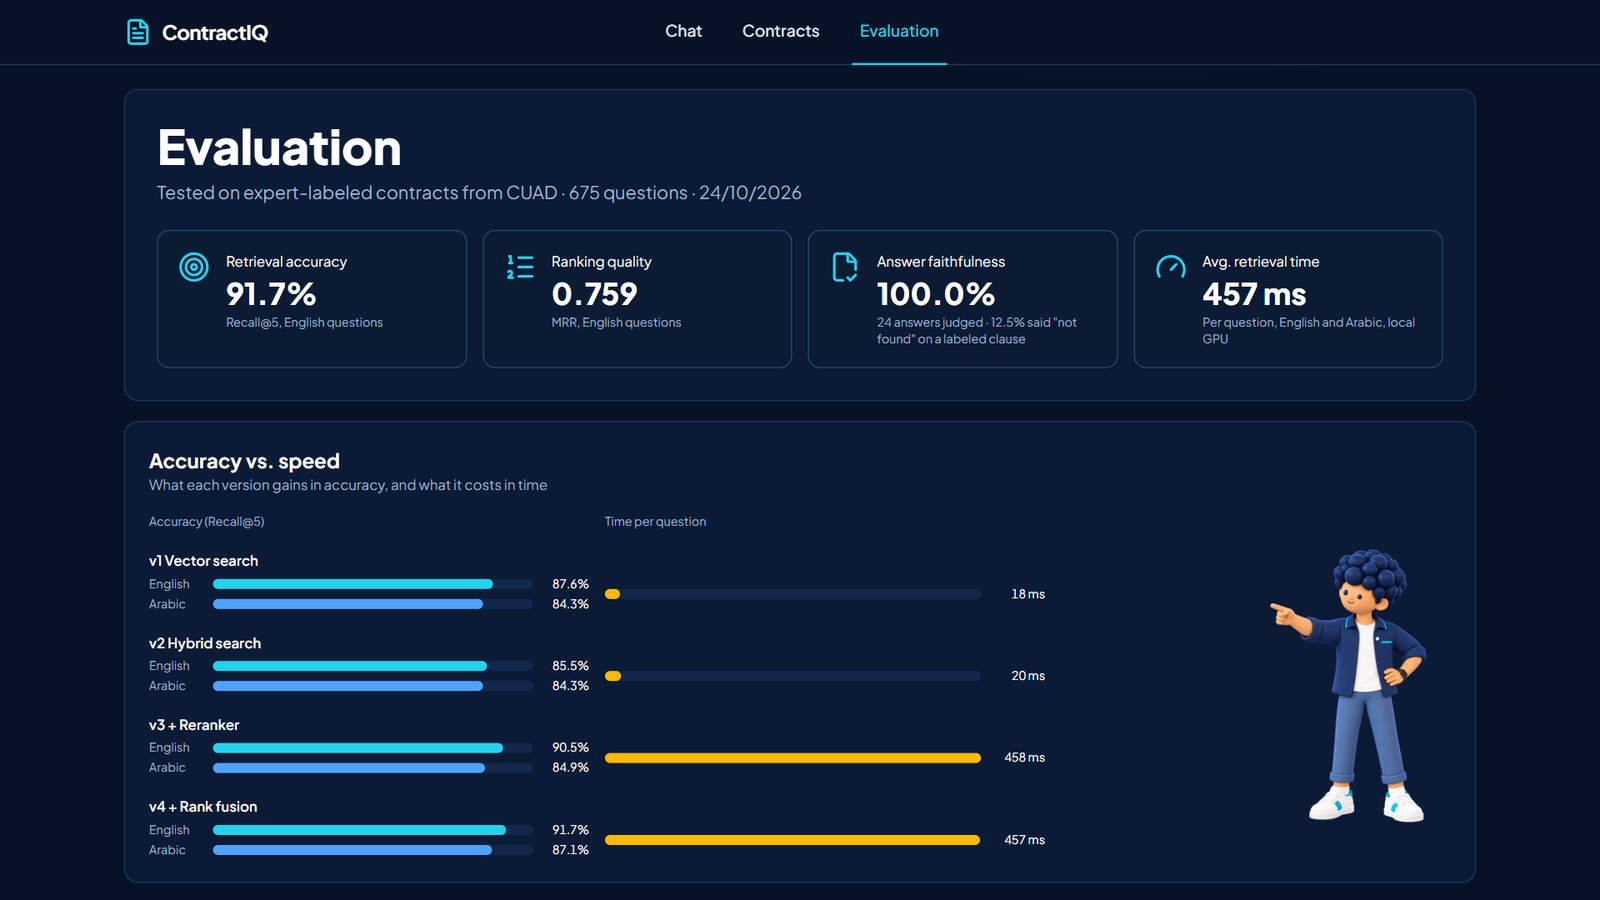
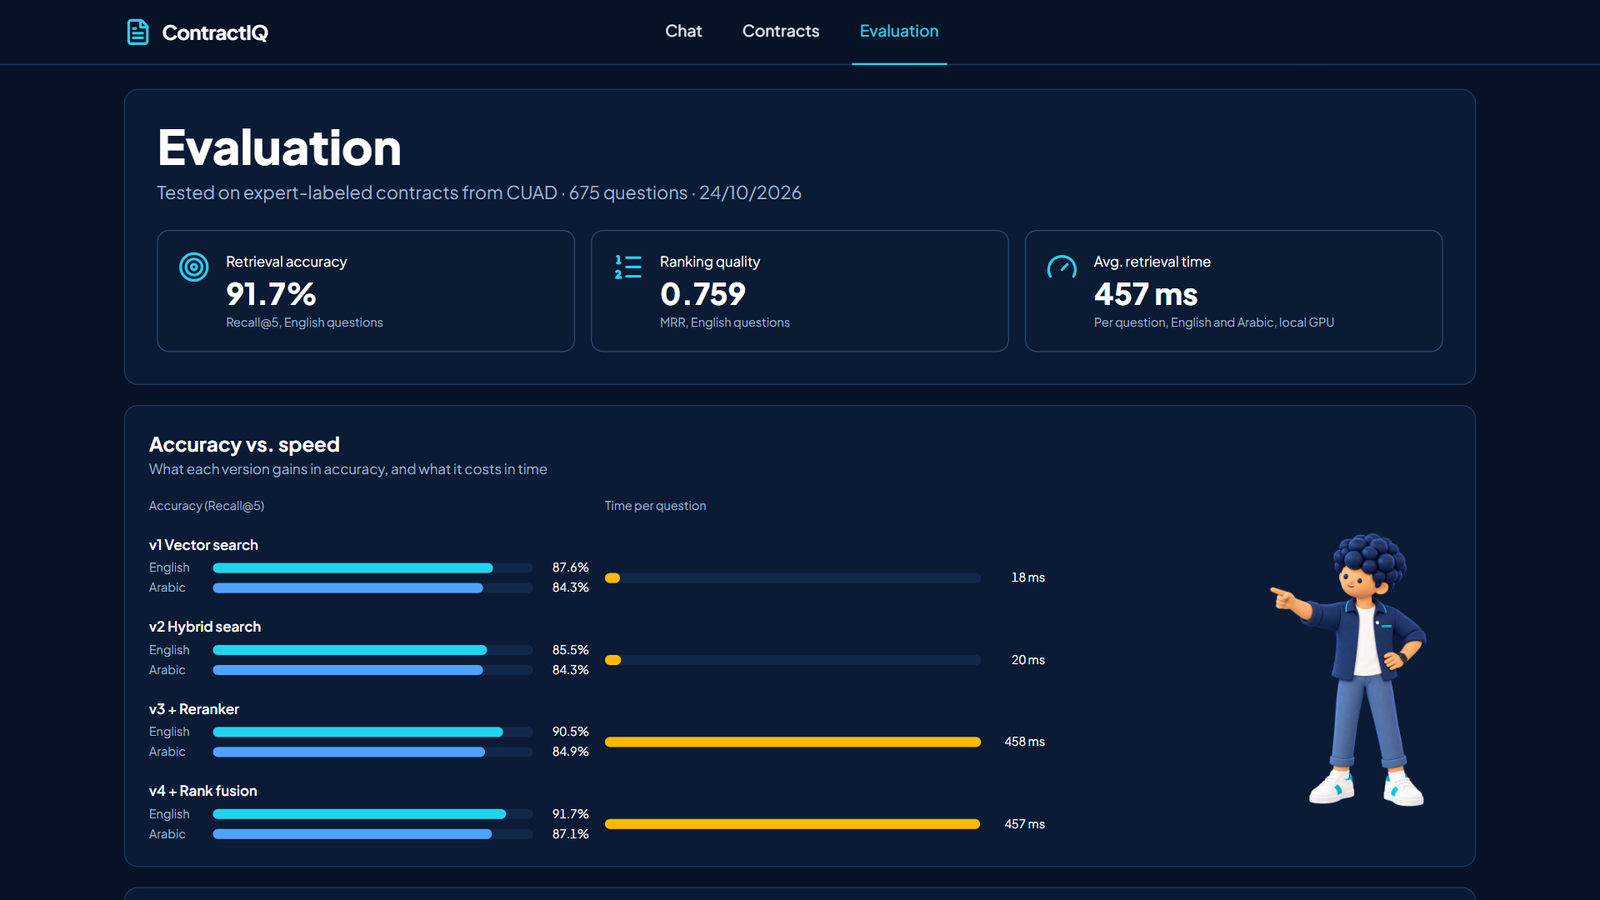
Remove the answer-faithfulness card and every mention of the 24-answer sample

diff --git a/frontend/src/pages/Evaluation.tsx b/frontend/src/pages/Evaluation.tsx
@@ -1,5 +1,5 @@
 import { useEffect, useState } from 'react'
-import { FileCheck2, Gauge, ListOrdered, Target } from 'lucide-react'
+import { Gauge, ListOrdered, Target } from 'lucide-react'
 
 import { api, pct, type Evaluation as Ev, type RetrievalRun } from '../api'
 
@@ -27,14 +27,6 @@ export default function Evaluation() {
   const cards = [
     { icon: Target, label: 'Retrieval accuracy', value: pct(best.en?.recall_at_k), note: `Recall@${k}, English questions` },
     { icon: ListOrdered, label: 'Ranking quality', value: best.en ? best.en.mrr.toFixed(3) : '—', note: 'MRR, English questions' },
-    {
-      icon: FileCheck2,
-      label: 'Answer faithfulness',
-      value: pct(ev?.answers?.faithfulness),
-      note: ev?.answers
-        ? `${ev.answers.n} answers judged · ${pct(ev.answers.not_found_rate ?? undefined)} said "not found" on a labeled clause`
-        : 'Needs an LLM API key',
-    },
     {
       icon: Gauge,
       label: 'Avg. retrieval time',
@@ -70,7 +62,7 @@ export default function Evaluation() {
         {ev && !ev.retrieval && (
           <p className="mt-3 text-amber-300">No results yet. Run <code>python -m contractiq.evaluate</code>.</p>
         )}
-        <div className="mt-6 grid gap-4 sm:grid-cols-2 xl:grid-cols-4">
+        <div className="mt-6 grid gap-4 sm:grid-cols-3">
           {cards.map(({ icon: Icon, label, value, note }) => (
             <div key={label} className="flex gap-4 rounded-xl border border-line-strong bg-ink-900/60 p-5">
               <Icon className="h-8 w-8 shrink-0 text-accent" aria-hidden />

diff --git a/frontend/src/pages/Landing.tsx b/frontend/src/pages/Landing.tsx
@@ -41,7 +41,6 @@ export default function Landing() {
   const ar = bestRun(ev, 'ar')
   const metrics = [
     { label: 'Retrieval accuracy', value: pct(en?.recall_at_k), note: `Recall@${ev?.retrieval?.k ?? 5}, English questions` },
-    { label: 'Answer faithfulness', value: pct(ev?.answers?.faithfulness), note: 'Claims supported by the cited source' },
     { label: 'Arabic vs English', value: ar && en ? `${pct(ar.recall_at_k)} / ${pct(en.recall_at_k)}` : '—', note: 'Same questions, asked in Arabic' },
   ]
 
@@ -133,7 +132,7 @@ export default function Landing() {
       <section className="mx-auto mt-16 max-w-[1400px] px-4 sm:px-10">
         <h2 className="text-4xl font-extrabold">Measured results</h2>
         <p className="mt-2 text-muted">Evaluated on expert-labeled contracts from CUAD.</p>
-        <div className="mt-6 grid gap-5 md:grid-cols-3">
+        <div className="mt-6 grid gap-5 md:grid-cols-2">
           {metrics.map((m) => (
             <div key={m.label} className="card p-6">
               <p className="font-semibold">{m.label}</p>

diff --git a/demo/record.py b/demo/record.py
@@ -41,7 +41,7 @@ CAPTIONS = {
     "search": ("SEARCH", "Find any supplier, in either language",
                "Search by supplier name in English or Arabic, then open the contract in the chat."),
     "eval": ("EVALUATION", "91.7% retrieval accuracy",
-             "Recall@5 on lawyer-labeled clauses, plus LLM-judged faithfulness of the answers."),
+             "How often the right clause is found, tested on 675 questions labeled by lawyers."),
     "tradeoff": ("TRADE-OFFS", "Every step is measured",
                  "Four versions side by side: the current one is the most accurate, at about half a second per question."),
 }
